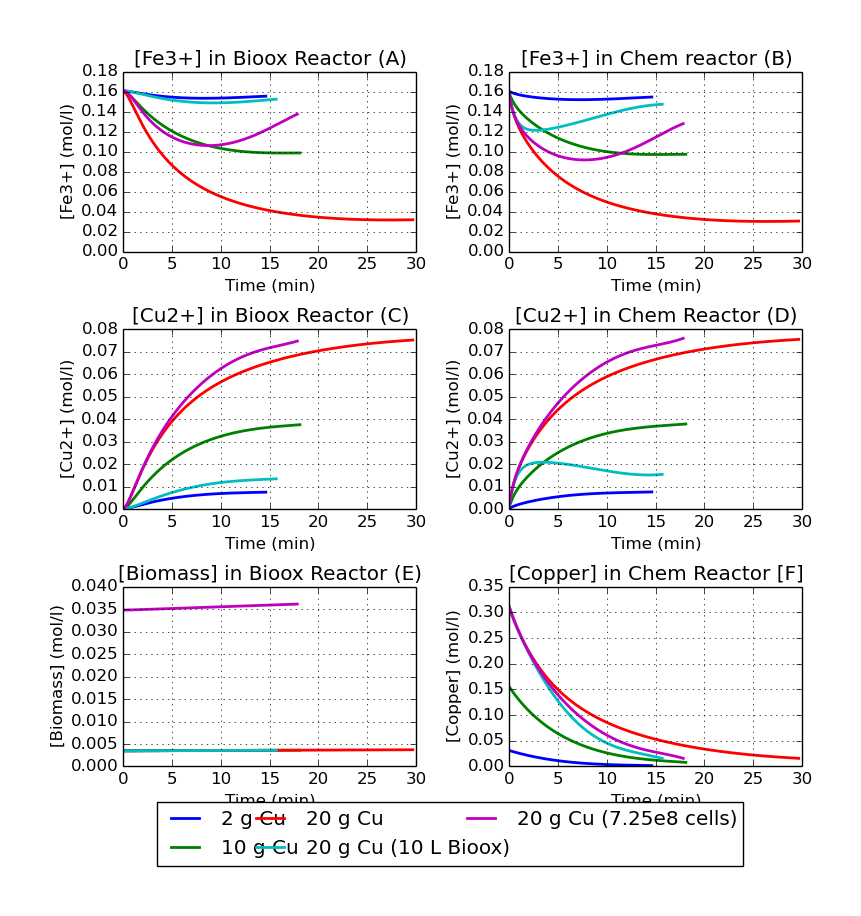
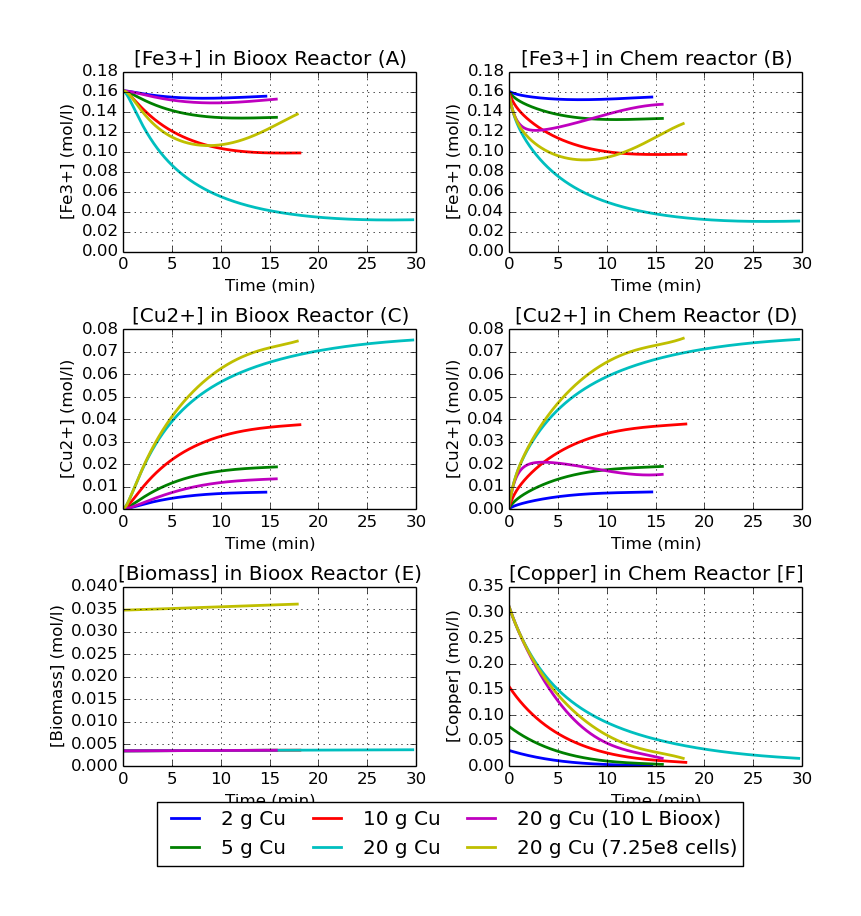
replotting

diff --git a/masters/calculations/system.py b/masters/calculations/system.py
@@ -33,7 +33,7 @@ class System(object):
         self.additions = additions
         self.additions_index = 1
 
-        self.MAX_TIME = 30 if self.additions else 10 # seconds
+        self.MAX_TIME = 90 if self.additions else 10 # seconds
 
     def convert_initial_metals_to_moles(self, initial_metals):
         for k, v in initial_metals.iteritems():
@@ -160,8 +160,8 @@ class System(object):
             unit.step = step
 
     def additions_update(self):
-        self.chem_cstr.components[0].component_conc = 20.0 / 63.55
-        self.initial_metals["Cu"] = 20.0 / 63.55
+        self.chem_cstr.components[0].component_conc = 4.0 / 63.55
+        self.initial_metals["Cu"] = 4.0 / 63.55
         self.chem_cstr.components[0].metal_ion = 0.0
         self.chem_cstr.components[0].reaction_step = 0
         self.additions_index += 1

diff --git a/masters/calculations/management/commands/sensitivity_analysis.py b/masters/calculations/management/commands/sensitivity_analysis.py
@@ -78,7 +78,7 @@ class Command(BaseCommand):
         output = {}
 
         for row in analysis_list:
-            sys = system.System(BIOX, CHEM, FERRIC_FERROUS, IRON, initial_metals={"Cu": CU}, additions=True)
+            sys = system.System(BIOX, CHEM, FERRIC_FERROUS, IRON, initial_metals={"Cu": 4}, additions=True)
             sys.build_cyclic_tanks()
             output[row[1]] = sys.run()
 
@@ -118,6 +118,7 @@ class Command(BaseCommand):
 
     def metal_sensitivity_analysis(self):
         analysis_list = [(2, "2 g Cu"),
+                         (5, "5 g Cu"),
                          (10, "10 g Cu"),
                          (20, "20 g Cu")]
         # default = {"biox": 1, "chem": 1, "ferric_ferrous": 1000}

diff --git a/masters/calculations/reactions.py b/masters/calculations/reactions.py
@@ -33,6 +33,7 @@ class BioxidationRate(object):
         K = 0.0024 # Tunde
 
         # u_max = self.ferrous / (Ks + self.ferrous)
+        # u_max = (0.13 / 3600.0)
         u_max = (0.13 / 3600.0)
 
         if self.ferrous == 0:
@@ -47,8 +48,8 @@ class BioxidationRate(object):
         self.component_conc = self.component_conc + (1.0 * rate_biomass)
 
     def simplified_hansford(self):
-        # q_spec_growth_rate = 23.55 / 3600
-        q_spec_growth_rate = 1.0 / 3600
+        q_spec_growth_rate = 23.55 / 3600
+        # q_spec_growth_rate = 1.0 / 3600
 
         K = 0.0024 # Tunde
         if self.ferrous == 0:
